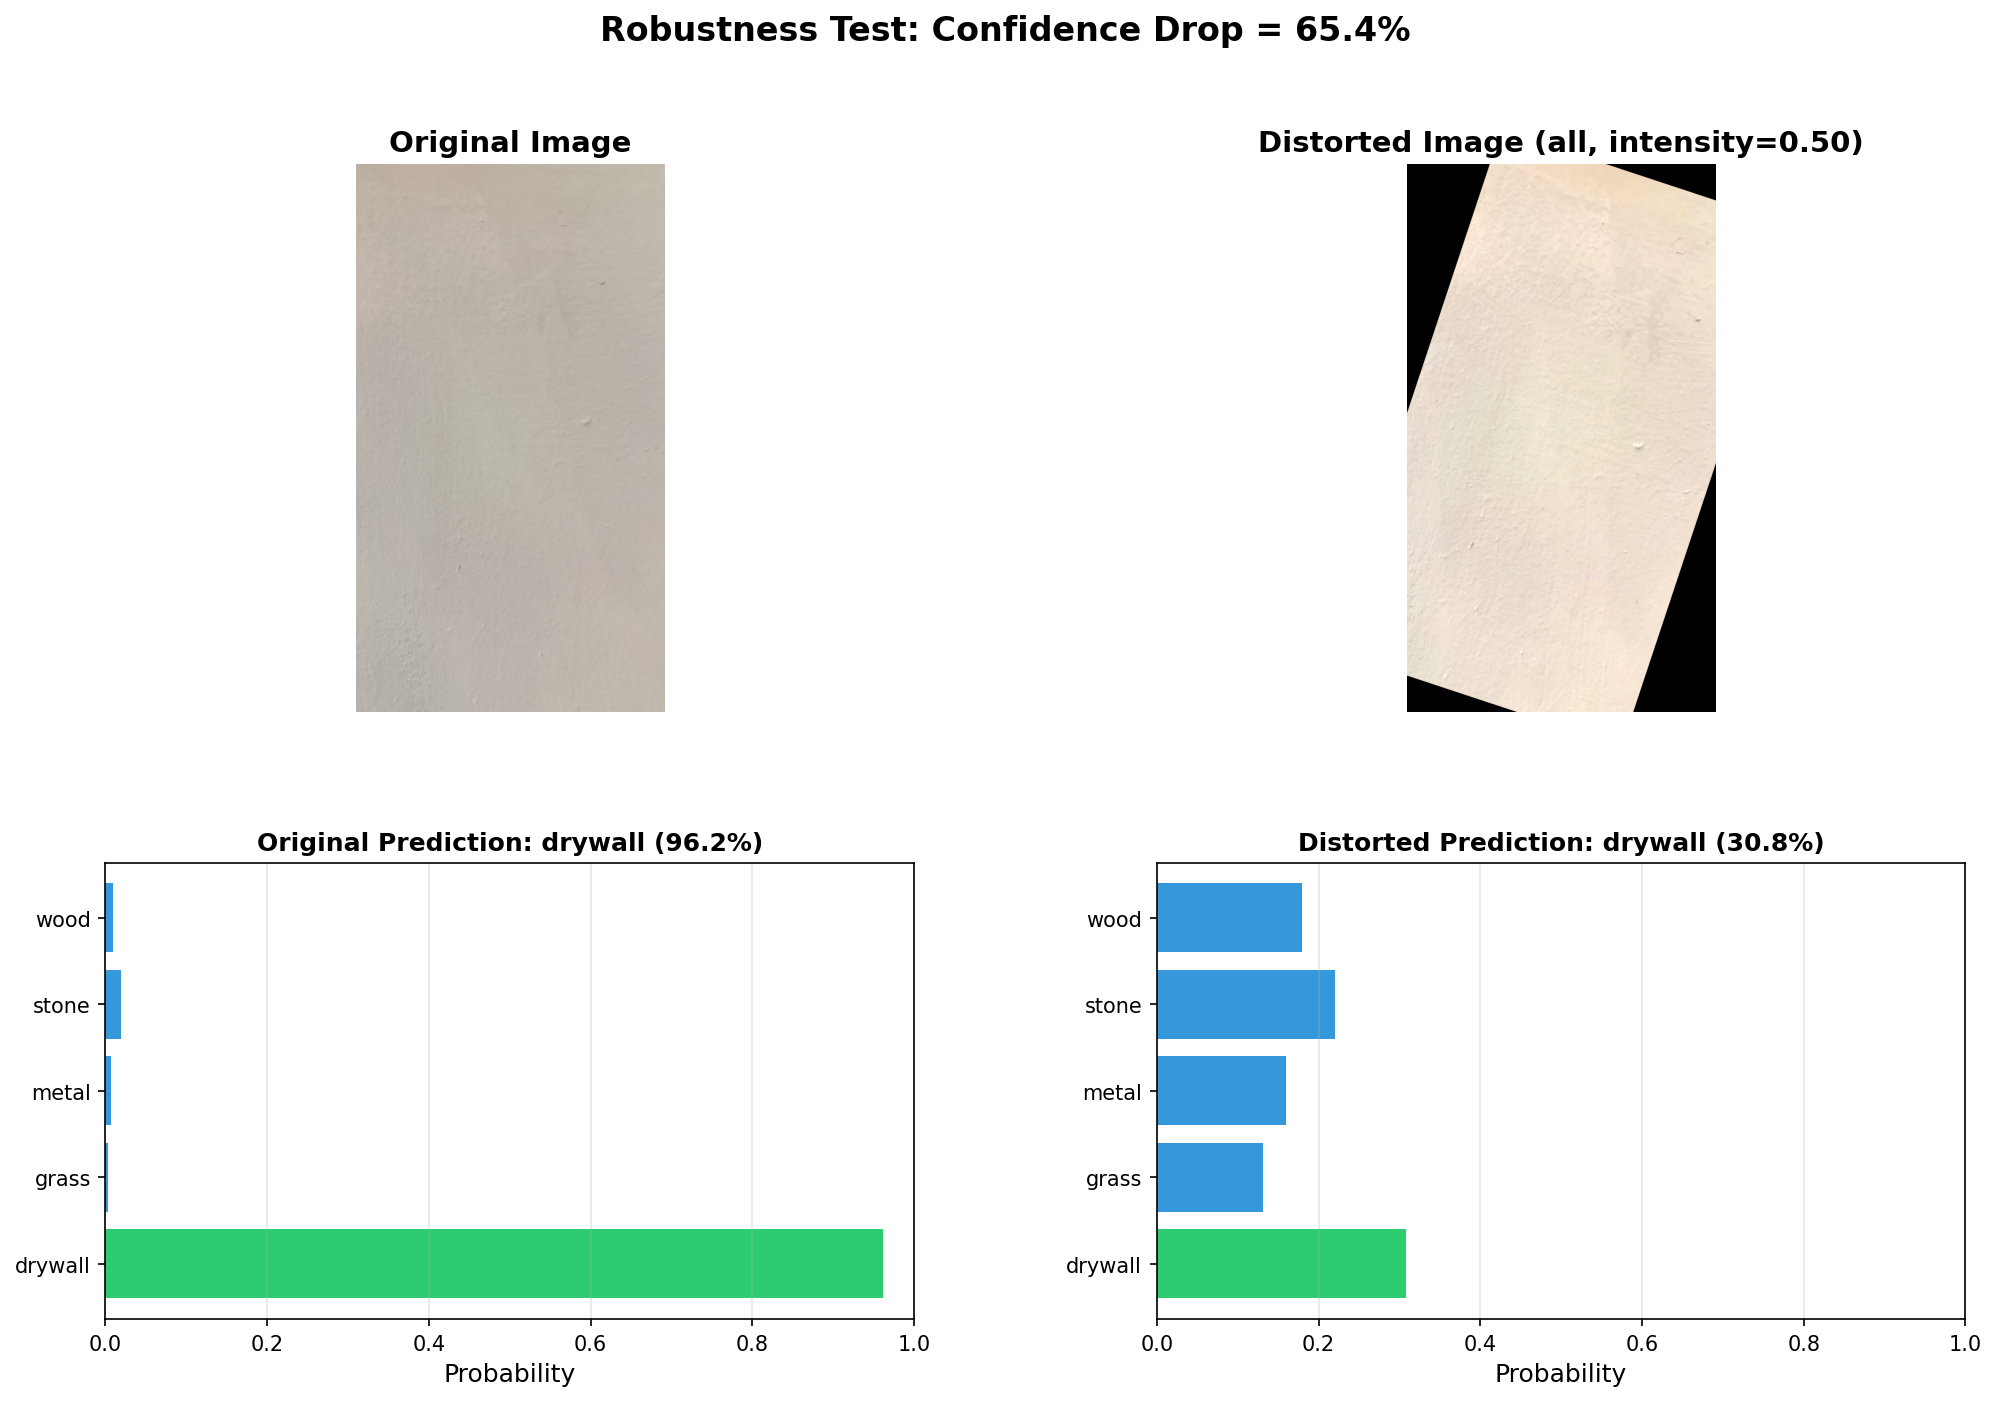
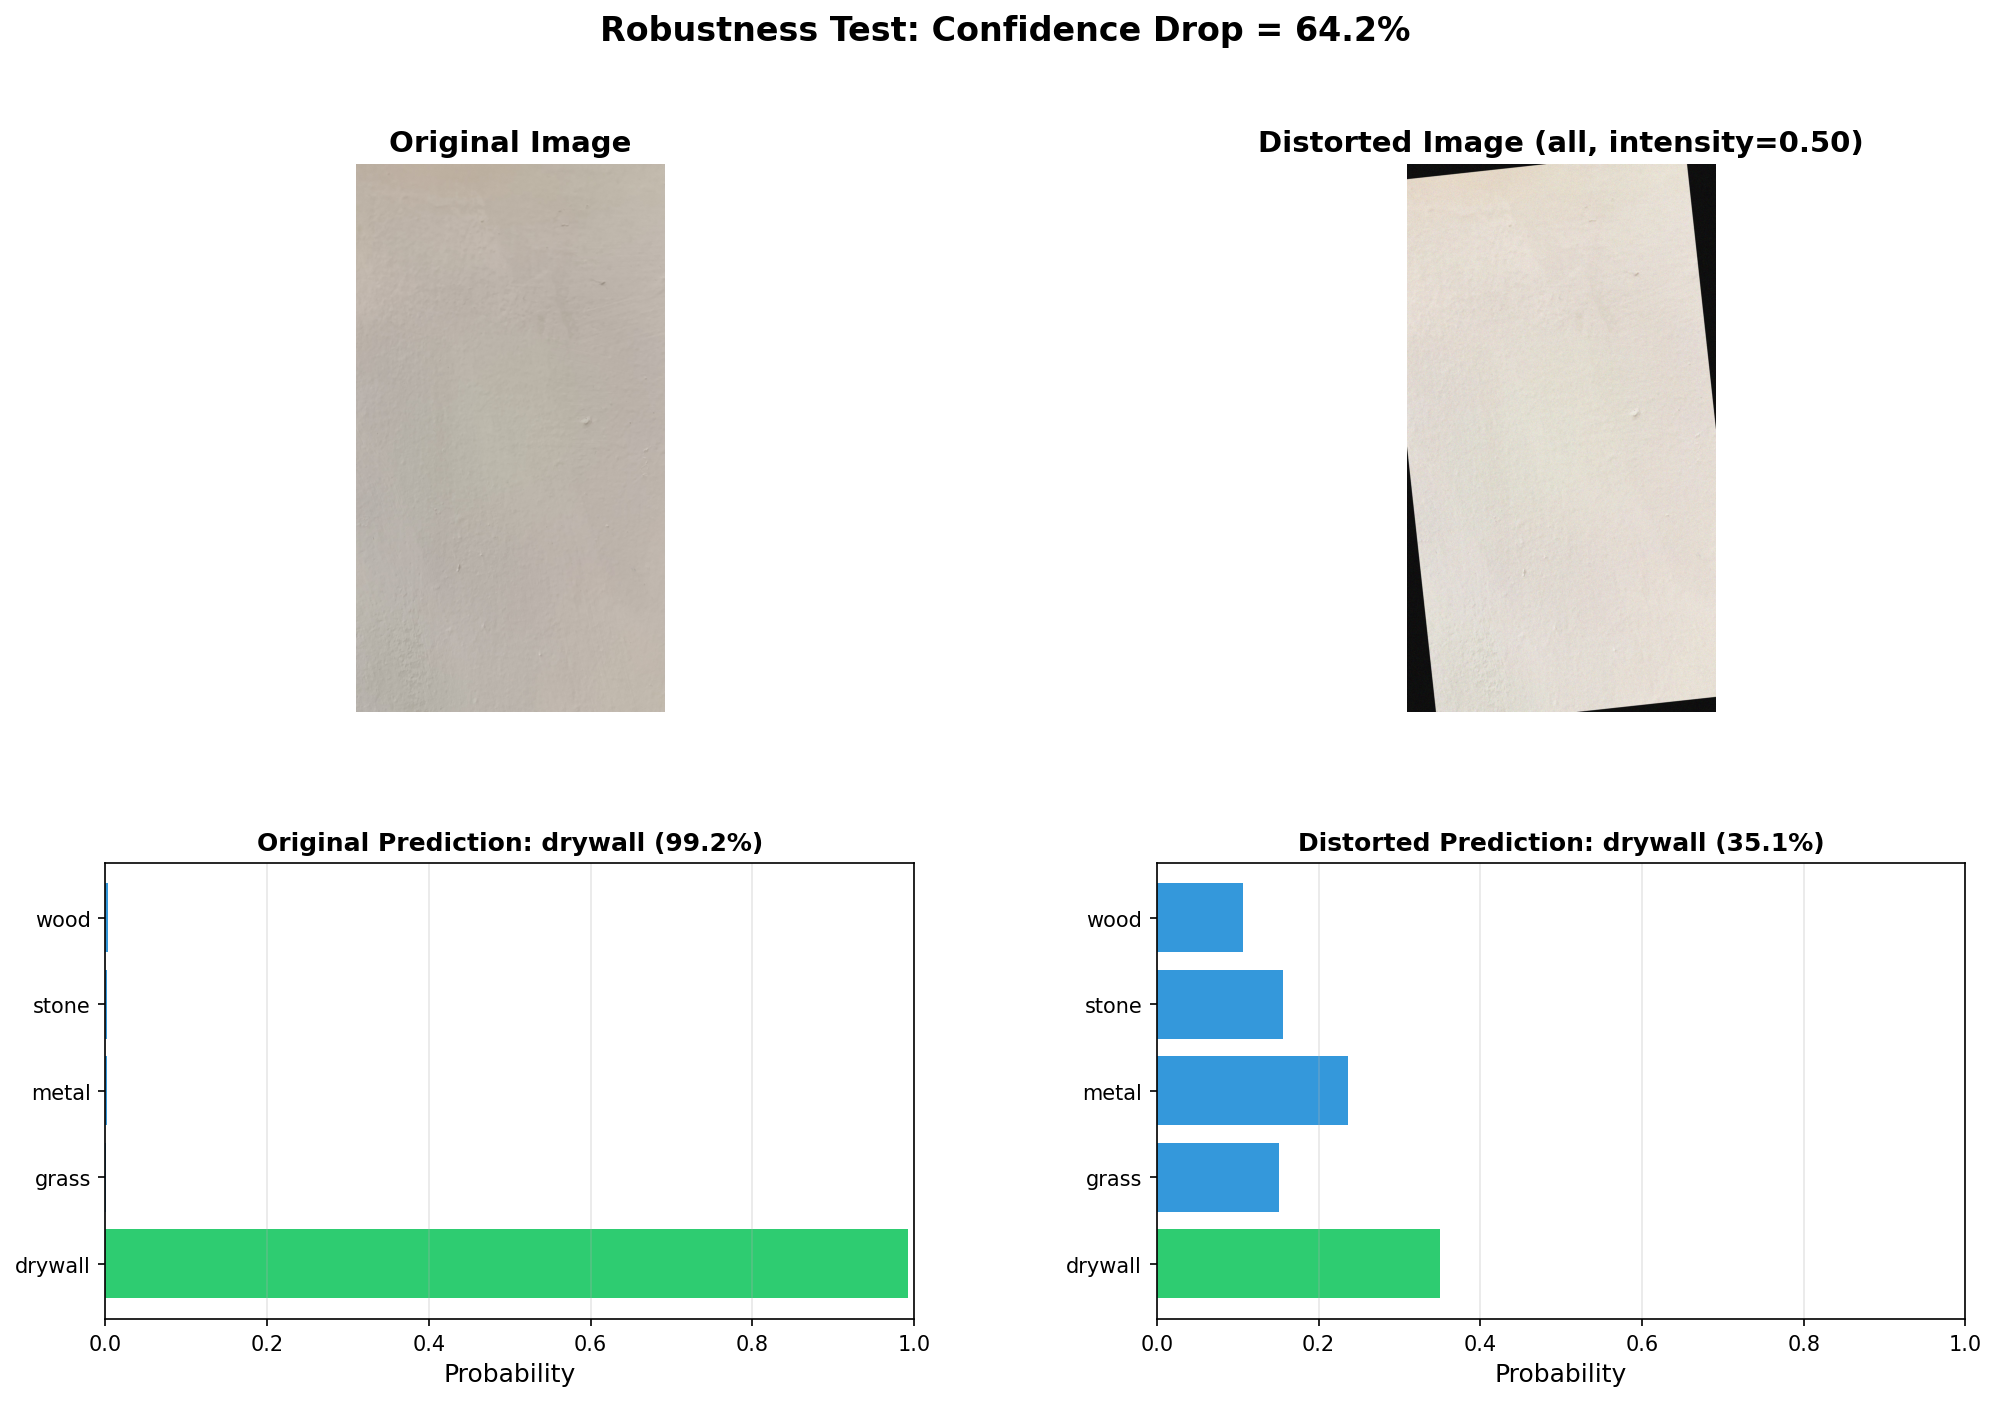
added distortions

diff --git a/inference.py b/inference.py
@@ -312,6 +312,194 @@ def predict(
             print(f"  {CLASS_NAMES[i]:>8}: {p.item() * 100:.1f}%")
 
 
+def compare_distorted_images(model_path: Path, data_dir: Path, distorted_dir: Path):
+    """
+    Compare first image from each class with its distorted variants (AWGN, Sim, SP).
+
+    Args:
+        model_path: Path to trained model
+        data_dir: Path to data directory containing class subdirectories
+        distorted_dir: Path to distorted directory containing class/distortion subdirectories
+    """
+    device = get_device()
+    transform = get_eval_transform()
+
+    # Load model
+    model = get_model(device=device, freeze_features=True)
+    state_dict = torch.load(model_path, map_location=device)
+    model.load_state_dict(state_dict)
+    model.eval()
+
+    # Distortion types and their suffixes
+    distortion_mappings = {
+        "AWGN": "_noise1",
+        "Sim": "_sim",
+        "SP": "_noise2"
+    }
+
+    # Process each class
+    for class_name in CLASS_NAMES:
+        print(f"\n{'='*70}")
+        print(f"Processing class: {class_name.upper()}")
+        print(f"{'='*70}")
+
+        # Find first image in data/{class}/
+        class_dir = data_dir / class_name
+        if not class_dir.exists():
+            print(f"Warning: Class directory {class_dir} does not exist, skipping")
+            continue
+
+        # Get first image
+        image_files = sorted(
+            list(class_dir.glob("*.jpg"))
+            + list(class_dir.glob("*.png"))
+            + list(class_dir.glob("*.jpeg"))
+        )
+
+        if not image_files:
+            print(f"Warning: No images found in {class_dir}, skipping")
+            continue
+
+        original_path = image_files[0]
+        img_basename = original_path.stem  # e.g., "IMG_0283"
+        img_ext = original_path.suffix  # e.g., ".jpeg"
+
+        print(f"Original image: {original_path.name}")
+
+        # Find corresponding distorted images
+        distorted_paths = {}
+        distorted_class_dir = distorted_dir / class_name
+
+        for dist_type, suffix in distortion_mappings.items():
+            dist_subdir = distorted_class_dir / dist_type
+            if not dist_subdir.exists():
+                print(f"Warning: Distortion directory {dist_subdir} does not exist")
+                distorted_paths[dist_type] = None
+                continue
+
+            # Look for image with expected suffix
+            expected_name = f"{img_basename}{suffix}{img_ext}"
+            dist_path = dist_subdir / expected_name
+
+            if dist_path.exists():
+                distorted_paths[dist_type] = dist_path
+                print(f"  {dist_type:4s}: {dist_path.name}")
+            else:
+                print(f"  {dist_type:4s}: NOT FOUND (expected {expected_name})")
+                distorted_paths[dist_type] = None
+
+        # Run inference on all versions
+        results = {}
+
+        # Original image
+        img_orig = Image.open(original_path).convert("RGB")
+        x_orig = transform(img_orig).unsqueeze(0).to(device)
+        with torch.no_grad():
+            logits_orig = model(x_orig)
+            probs_orig = F.softmax(logits_orig, dim=1)[0]
+            conf_orig, idx_orig = probs_orig.max(dim=0)
+
+        results["Original"] = {
+            "image": img_orig,
+            "probs": probs_orig.cpu().numpy(),
+            "pred_idx": idx_orig.item(),
+            "confidence": conf_orig.item()
+        }
+
+        print(f"\nPredictions:")
+        print(f"  Original: {CLASS_NAMES[idx_orig.item()]} ({conf_orig.item() * 100:.1f}%)")
+
+        # Distorted images
+        for dist_type in ["AWGN", "Sim", "SP"]:
+            if distorted_paths[dist_type] is not None:
+                img_dist = Image.open(distorted_paths[dist_type]).convert("RGB")
+                x_dist = transform(img_dist).unsqueeze(0).to(device)
+                with torch.no_grad():
+                    logits_dist = model(x_dist)
+                    probs_dist = F.softmax(logits_dist, dim=1)[0]
+                    conf_dist, idx_dist = probs_dist.max(dim=0)
+
+                results[dist_type] = {
+                    "image": img_dist,
+                    "probs": probs_dist.cpu().numpy(),
+                    "pred_idx": idx_dist.item(),
+                    "confidence": conf_dist.item()
+                }
+
+                conf_drop = (conf_orig.item() - conf_dist.item()) * 100
+                print(f"  {dist_type:4s}:     {CLASS_NAMES[idx_dist.item()]} ({conf_dist.item() * 100:.1f}%) [Δ: {conf_drop:+.1f}%]")
+
+        # Create comparison plot
+        plot_distorted_comparison(results, class_name, img_basename, model_path.stem)
+
+
+def plot_distorted_comparison(results: dict, class_name: str, img_basename: str, model_name: str):
+    """
+    Create a 4-panel comparison plot showing original and distorted predictions.
+
+    Args:
+        results: Dictionary with keys "Original", "AWGN", "Sim", "SP" containing prediction results
+        class_name: Name of the material class
+        img_basename: Base name of the image file
+        model_name: Name of the model used
+    """
+    # Determine layout based on available results
+    available_distortions = [k for k in ["AWGN", "Sim", "SP"] if k in results]
+    n_plots = 1 + len(available_distortions)  # Original + distortions
+
+    # Create figure with 2 rows: images on top, probability bars on bottom
+    fig = plt.figure(figsize=(5 * n_plots, 10))
+    gs = fig.add_gridspec(2, n_plots, height_ratios=[1.2, 1], hspace=0.3, wspace=0.3)
+
+    # Plot original and each distortion
+    plot_order = ["Original"] + available_distortions
+
+    for i, result_type in enumerate(plot_order):
+        if result_type not in results:
+            continue
+
+        result = results[result_type]
+
+        # Top row: Image
+        ax_img = fig.add_subplot(gs[0, i])
+        ax_img.imshow(result["image"])
+        ax_img.axis("off")
+        ax_img.set_title(f"{result_type}", fontsize=14, fontweight="bold")
+
+        # Bottom row: Probability bars
+        ax_prob = fig.add_subplot(gs[1, i])
+        colors = [
+            "#2ecc71" if j == result["pred_idx"] else "#3498db"
+            for j in range(len(CLASS_NAMES))
+        ]
+        ax_prob.barh(CLASS_NAMES, result["probs"], color=colors)
+        ax_prob.set_xlabel("Probability", fontsize=11)
+
+        pred_label = CLASS_NAMES[result["pred_idx"]]
+        ax_prob.set_title(
+            f"{pred_label}\n({result['confidence'] * 100:.1f}%)",
+            fontsize=12,
+            fontweight="bold"
+        )
+        ax_prob.set_xlim(0, 1)
+        ax_prob.grid(axis="x", alpha=0.3)
+
+    # Overall title
+    fig.suptitle(
+        f"Distorted Image Comparison: {class_name.capitalize()}\nModel: {model_name} | Image: {img_basename}",
+        fontsize=16,
+        fontweight="bold",
+        y=0.98
+    )
+
+    # Save plot
+    plot_filename = f"distorted_comparison_{class_name}_{img_basename}_{model_name}.png"
+    plot_path = plots_dir / plot_filename
+    plt.savefig(plot_path, dpi=150, bbox_inches="tight")
+    print(f"\nSaved comparison plot to {plot_path}")
+    plt.close()
+
+
 def evaluate_dark_directories(
     model_path: Path, data_dir: Path, brightening_methods: dict
 ):
@@ -747,6 +935,19 @@ if __name__ == "__main__":
         help="Perform CLAHE parameter sweep over clip_limit and tile_size ranges",
     )
 
+    # Distorted directory comparison mode
+    parser.add_argument(
+        "--compare-distorted",
+        action="store_true",
+        help="Compare first image from each class with distorted variants (AWGN, Sim, SP)",
+    )
+    parser.add_argument(
+        "--distorted-dir",
+        type=str,
+        default="distorted",
+        help="Path to distorted directory (default: distorted)",
+    )
+
     args = parser.parse_args()
 
     model_path = models_dir / args.model
@@ -790,6 +991,24 @@ if __name__ == "__main__":
 
         if results:
             plot_clahe_heatmap(results, args.model, clip_limits, tile_sizes)
+
+    # Distorted directory comparison mode
+    elif args.compare_distorted:
+        print("=" * 70)
+        print("DISTORTED DIRECTORY COMPARISON MODE")
+        print("=" * 70)
+        print(f"Model: {args.model}")
+        print(f"Data directory: {args.data_dir}")
+        print(f"Distorted directory: {args.distorted_dir}")
+
+        data_dir_path = Path(args.data_dir)
+        distorted_dir_path = Path(args.distorted_dir)
+
+        if not distorted_dir_path.exists():
+            print(f"Error: Distorted directory '{distorted_dir_path}' does not exist.")
+            sys.exit(1)
+
+        compare_distorted_images(model_path, data_dir_path, distorted_dir_path)
 
     # Dark directory evaluation mode
     elif args.eval_dark:
